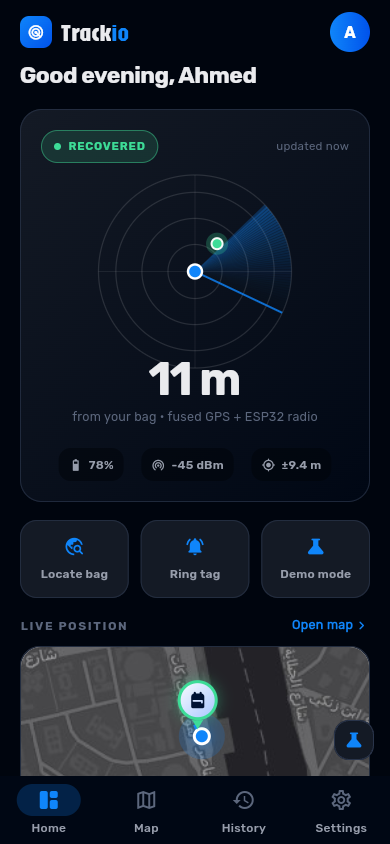
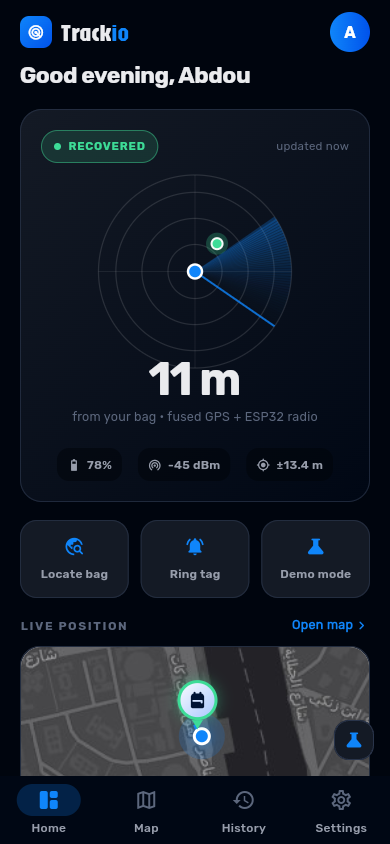
demo: rename demo account to Abdou (app fallback name + re-shot gallery)

diff --git a/lib/services/mock_auth_service.dart b/lib/services/mock_auth_service.dart
@@ -59,7 +59,7 @@ class AuthService extends ChangeNotifier {
 
   Future<bool> login({required String email}) async {
     if (email.trim().isEmpty) return false;
-    _user = AppUser(name: _prefs.getString('demo_user_name') ?? 'Ahmed Hassan', email: email);
+    _user = AppUser(name: _prefs.getString('demo_user_name') ?? 'Abdou', email: email);
     await _prefs.setString('demo_user_name', _user!.name);
     await _prefs.setString('demo_user_email', email);
     notifyListeners();
